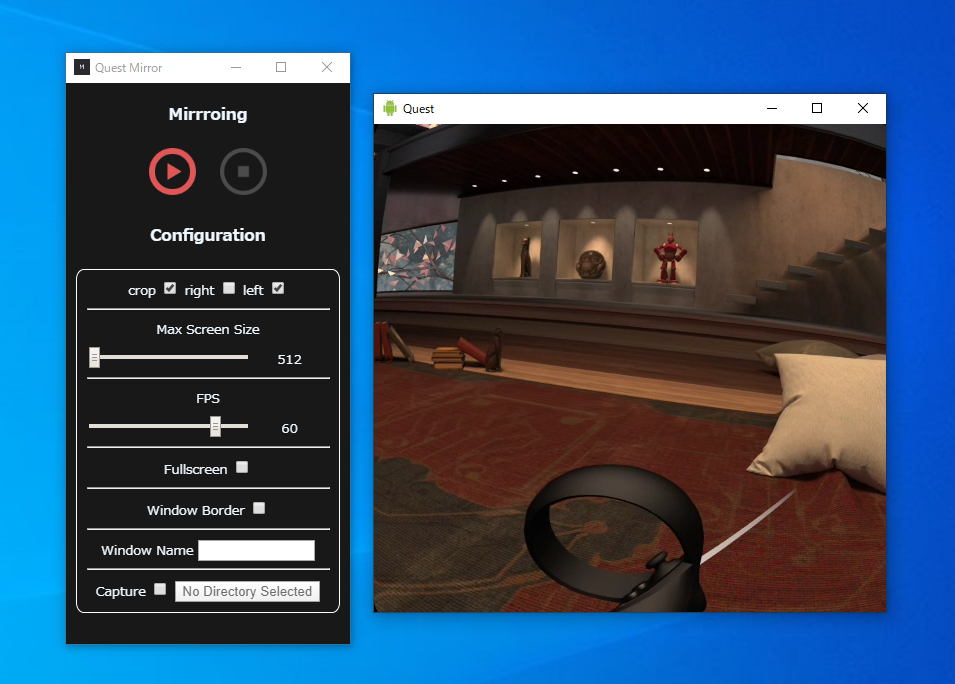
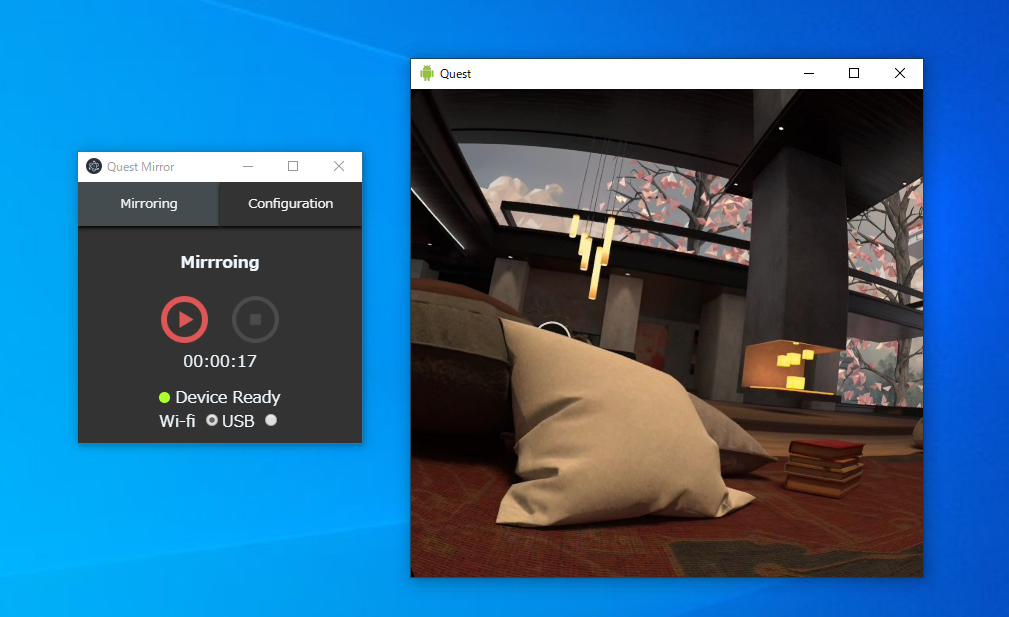
fix READEME

diff --git a/README.md b/README.md
@@ -13,7 +13,7 @@ This app calls scrcpy from Electron for easy mirroring by kids and anyone.
 It is better to use the pre-built package of links for easier execution.
 Unzip the zip file and click **QuestMirror.exe** in the unzipped folder.
 
-Pre-build: https://github.com/r-asada-ab/QuestMirror/releases/download/v1.0.0/quest-mirror-win32-x64.zip
+Pre-build: https://github.com/r-asada-ab/QuestMirror/releases/download/v1.1.0/quest-mirror-win32-x64.zip
 
 ## Build 
 
@@ -44,6 +44,8 @@ Wait for the download to complete.
 Once downloaded, connect Oculus Quest to your PC. At this time, keep Oculus Quest in developer mode.
 
 After connecting Oculus Quest, press the play button to start mirroring.
+
+When performing wireless mirroring, press the radio button labeled Wi-Fi and the app will attempt to connect to Quest. When the connection is complete, disconnect the cable and press the play button to start mirroring.
 
 # Configuration
 
